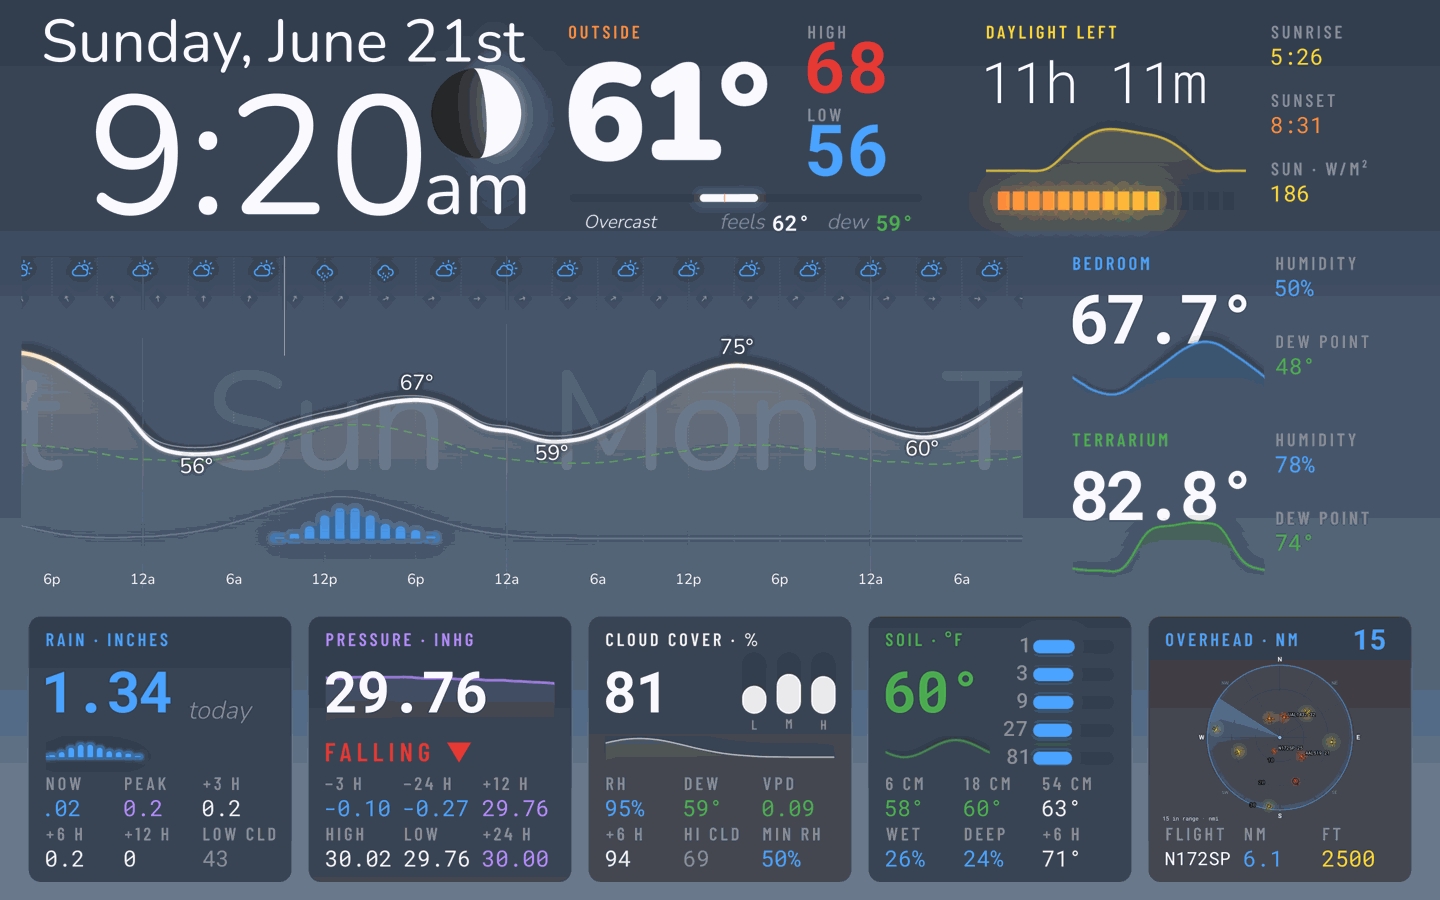
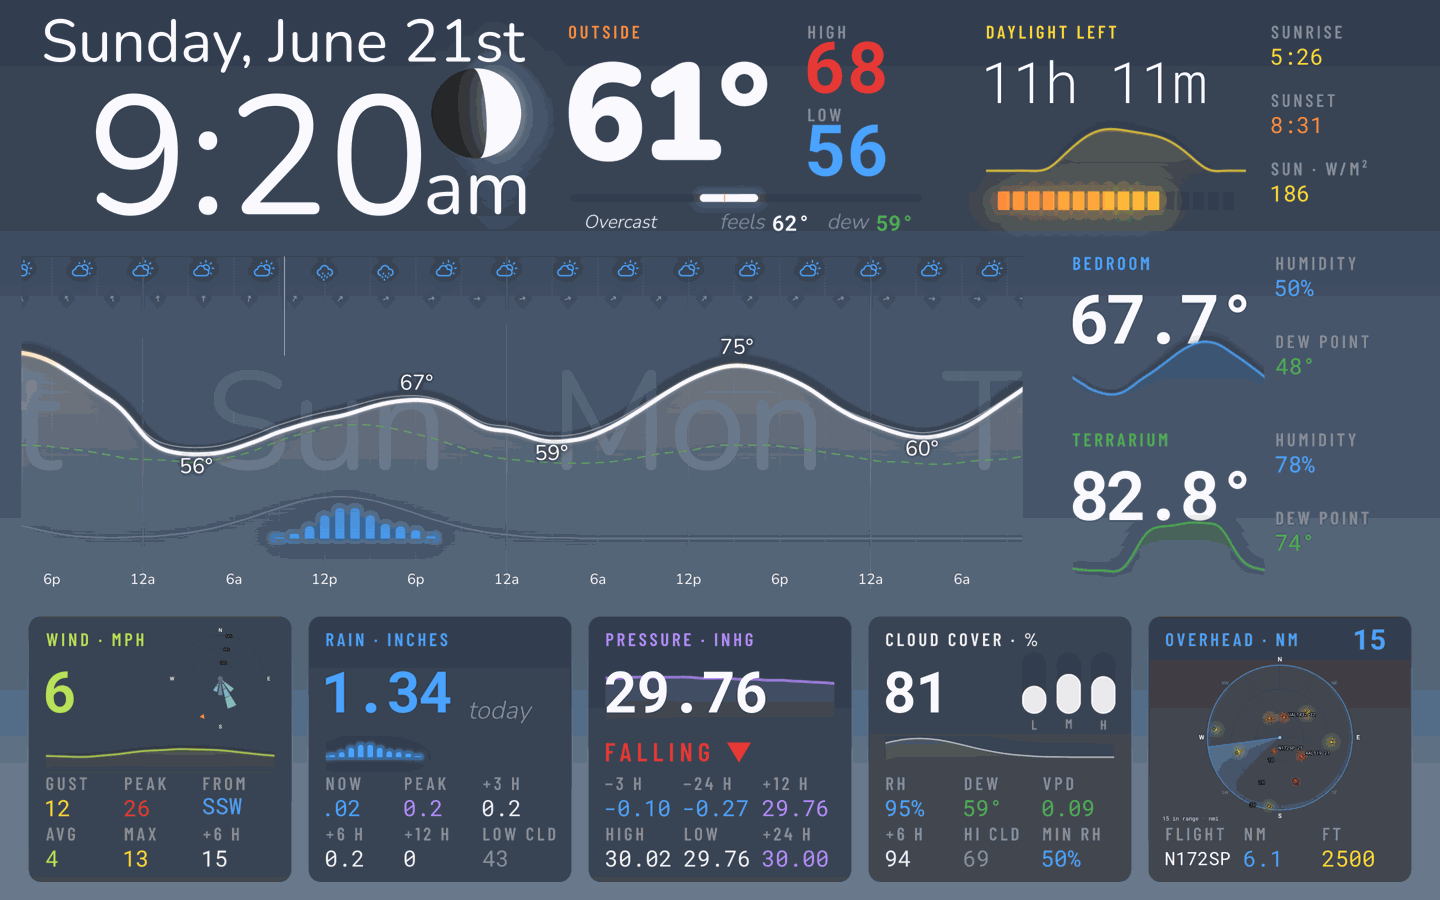
feat(Band): honour when: on band items; rain card only with rain
An item of a band whose `when:` fails is hidden and the rest close up
around it (each keeps its laid-out slot; `place` translates past the
gap), and it returns in place when the condition holds. The showcase
rain card now joins the band only while rain fell in the last day or is
forecast in the next six hours.

Claude-Session: https://claude.ai/code/session_01P1S9nMzFZHowZTvjwnQnbx

diff --git a/src/LevityDash/lib/ui/frontends/PySide/Modules/Containers/Band.py b/src/LevityDash/lib/ui/frontends/PySide/Modules/Containers/Band.py
@@ -97,6 +97,25 @@ class Band(Panel, tag='band'):
 		return [child for child in self.childItems() if isinstance(child, Panel) and hasattr(child, 'condition')]
 
 	@property
+	def shown(self) -> List[Panel]:
+		"""The items in the ring now: those whose `when:` holds (an item without one always does)."""
+		return [child for child in self.choices if child.condition.holds]
+
+	def childConditionChanged(self, child: Panel) -> None:
+		"""An item's `when:` changed: it leaves or joins the ring, and the others close up around it."""
+		self._reflowShown()
+
+	def _reflowShown(self) -> None:
+		"""Hide the items whose `when:` fails. Each keeps its laid-out slot; `place` translates the rest to close the gap."""
+		shown = self.shown
+		for child in self.choices:
+			child.setVisible(child in shown)
+		self._applied.clear()
+		if shown:
+			self._position %= len(shown)
+		self._restart()
+
+	@property
 	def vertical(self) -> bool:
 		return self._direction in ('up', 'down')
 
@@ -106,7 +125,7 @@ class Band(Panel, tag='band'):
 
 	@property
 	def running(self) -> bool:
-		return scrolls(len(self.choices), self._visible)
+		return scrolls(len(self.shown), self._visible)
 
 	@property
 	def position(self) -> float:
@@ -131,7 +150,8 @@ class Band(Panel, tag='band'):
 		"""Move every item to where `position` puts it. Only translations change; nothing is laid out."""
 		if position is not None:
 			self._position = position
-		children = self.choices
+		every = self.choices
+		children = [child for child in every if child.condition.holds]
 		count = len(children)
 		if count == 0:
 			return
@@ -140,7 +160,8 @@ class Band(Panel, tag='band'):
 		moving = scrolls(count, self._visible)
 		where = slots(count, self._position, self.sign) if moving else list(range(count))
 		for index, child in enumerate(children):
-			delta = round((where[index] - index) * stride, 2) if moving else 0.0
+			# Each item was laid out at its place in the file; a hidden one before it leaves a gap to close.
+			delta = round((where[index] - every.index(child)) * stride, 2)
 			if self._applied.get(child) == delta:
 				continue
 			self._applied[child] = delta
@@ -187,7 +208,7 @@ class Band(Panel, tag='band'):
 			return
 		try:
 			elapsed = time.monotonic() - self._started
-			count = len(self.choices)
+			count = len(self.shown)
 			self.place((elapsed * self._speed * self.sign) % count)
 		except Exception:
 			log.exception('band could not move; stopping it')
@@ -198,7 +219,7 @@ class Band(Panel, tag='band'):
 			self._dwellTimer.start(int(max(self._dwell, 0.05) * 1000))  # look again later; costs nothing
 			return
 		try:
-			count = len(self.choices)
+			count = len(self.shown)
 			step = self._stepSize if self._stepSize else max(1.0, math.floor(self._visible))
 			start, end = self._position, self._position + step * self.sign
 			if self._transition <= 0:
@@ -266,7 +287,7 @@ class Band(Panel, tag='band'):
 		self.geometry.updateSurface()
 		self._applied.clear()
 		itemLoader(self, value, existing=self.choices)
-		self._restart()
+		self._reflowShown()
 
 	@items.condition(method='get')
 	def items(owner: 'Band') -> bool:

diff --git a/tests/ui/test_band.py b/tests/ui/test_band.py
@@ -97,3 +97,23 @@ def test_bad_settings_are_named(dashboard, slot):
 	for name, value in (('mode', 'sideways'), ('direction', 'north'), ('visible', 0), ('gap', '80%')):
 		with pytest.raises(ValueError):
 			getattr(Band, name).decodeValue(value, band)
+
+
+def test_when_takes_an_item_out_of_the_ring(dashboard, slot):
+	"""An item whose `when:` fails is hidden and the others close up; when it holds again the item comes back in place."""
+	state = {'type': 'band', 'name': 'band', 'visible': 3, 'dwell': 3600, 'transition': 0, 'gap': '0%'}
+	state['items'] = [{'type': 'group', 'name': f'c{i}'} for i in range(5)]
+	state['items'][1]['when'] = False
+	slot.state = {'items': [state]}
+	band = next(c for c in slot.childItems() if isinstance(c, Band))
+	pump(dashboard.app, 0.3)
+	third = band.rect().width() / 3
+	at = lambda c: c.pos().x() + c.transform().dx()
+	assert [c.stateName for c in band.shown] == ['c0', 'c2', 'c3', 'c4']
+	assert not child(band, 'c1').isVisible()
+	assert at(child(band, 'c2')) == pytest.approx(third, rel=0.01)  # moved up into c1's slot
+	child(band, 'c1').when = True
+	pump(dashboard.app, 0.3)
+	assert child(band, 'c1').isVisible() and len(band.shown) == 5
+	assert at(child(band, 'c2')) == pytest.approx(2 * third, rel=0.01)
+	assert at(child(band, 'c1')) == pytest.approx(third, rel=0.01)

diff --git a/docs/design-references/showcase/default.py b/docs/design-references/showcase/default.py
@@ -192,6 +192,11 @@ BEAMS = {
 }
 
 
+# A card that only joins the band while it has something to say: the rain card while rain fell in the last day or
+# is forecast in the next six hours (no data counts as no rain, so it also stays out when the key is missing).
+WHEN = {'rain': f'max({PR}, 24h) > 0 or at({PR}, 6h) > 0'}
+
+
 def board(rooms=INDOOR):
 	B = [clock()]
 	# Two reading sizes (Neal's rule): `global.room` for what is read across the room, `global.detail` for what is
@@ -421,7 +426,8 @@ def board(rooms=INDOOR):
 
 	def card(name):
 		fill = {'color': {'color': '$surface', 'mix': {'with': tint[name], 'by': 0.14}}, 'alpha': 0.62}
-		return nest(f'{name}Card', (origin[name], Y, CW, H), cards.pop(name), fill=fill, **({'beam': BEAMS[name]} if name in BEAMS else {}))
+		extra = ({'beam': BEAMS[name]} if name in BEAMS else {}) | ({'when': WHEN[name]} if name in WHEN else {})
+		return nest(f'{name}Card', (origin[name], Y, CW, H), cards.pop(name), fill=fill, **extra)
 
 	# The last card stays put (a plane overhead must not scroll away); the rest take turns in a band, four in view.
 	today = card('today')

diff --git a/docs/config/dashboard/band.md b/docs/config/dashboard/band.md
@@ -36,4 +36,4 @@ The items sit in a ring. The one that leaves one end comes in at the other, so t
 
 The layout is worked out once, as shares of the band. A move changes only each item's own translation, so there is no geometry update and no relayout per frame. In `continuous` mode every item is drawn into a pixmap once and the pixmap is moved (`cache: false` for an item that repaints every frame anyway, such as a graph with a live edge). A `step` band does nothing at all between moves. On a slow machine, lower `fps` (15 still looks smooth at a slow `speed`) or use `step`. A band that is hidden or off the scene does not tick.
 
-`when:` on an item of a band is not used: every item takes its turn. Use a [switch](switch.md) inside an item to change what one slot shows.
+`when:` on an item of a band takes it out of the ring while it is false: it is hidden and the others close up, and it comes back in its place when the condition holds again. Use a [switch](switch.md) inside an item to change what one slot shows instead.
